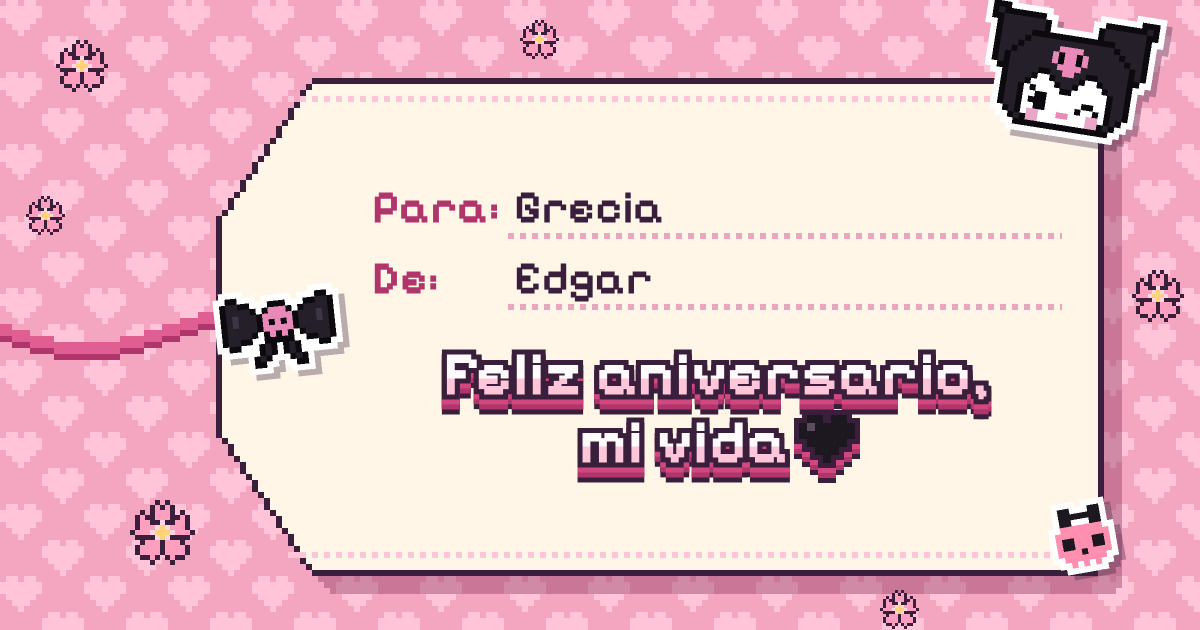
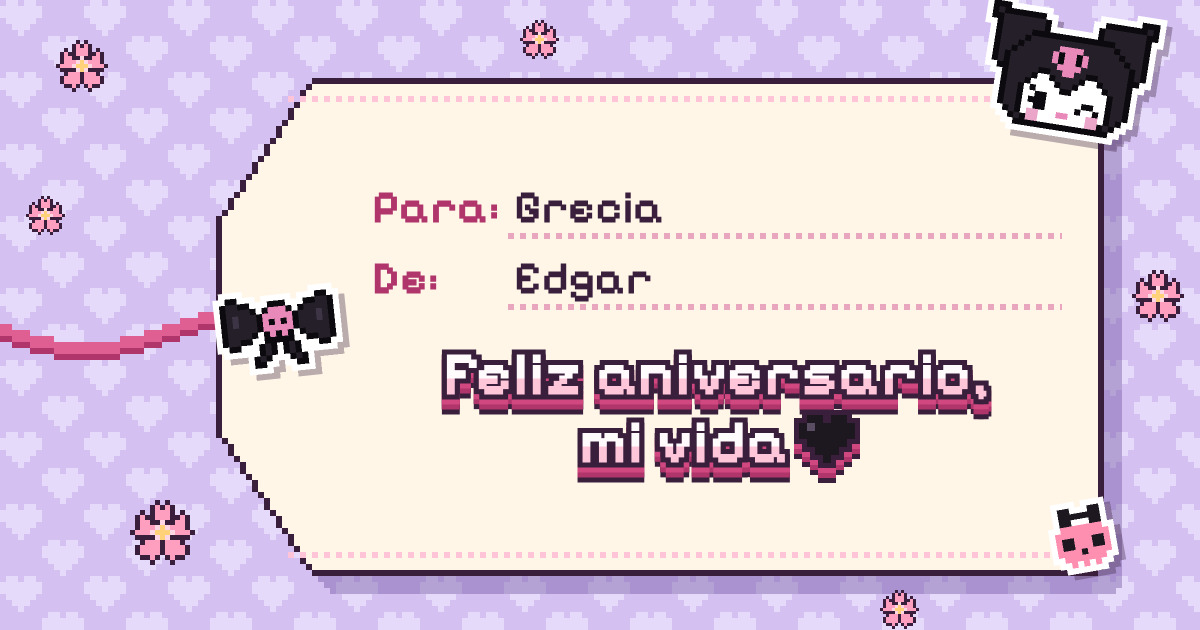
Tarjetita de la vista previa con fondo lila pastel

diff --git a/index.html b/index.html
@@ -16,7 +16,7 @@
   <meta property="og:url" content="https://guenslive.github.io/grecia-y-edgar-2026/">
   <meta property="og:title" content="7 años contigo">
   <meta property="og:description" content="Feliz aniversario, mi amor🖤">
-  <meta property="og:image" content="https://guenslive.github.io/grecia-y-edgar-2026/tarjeta.jpg">
+  <meta property="og:image" content="https://guenslive.github.io/grecia-y-edgar-2026/tarjeta.jpg?v=2">
   <meta property="og:image:type" content="image/jpeg">
   <meta property="og:image:width" content="1200">
   <meta property="og:image:height" content="630">
